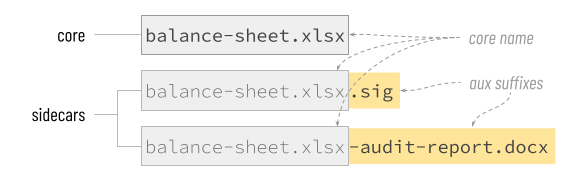
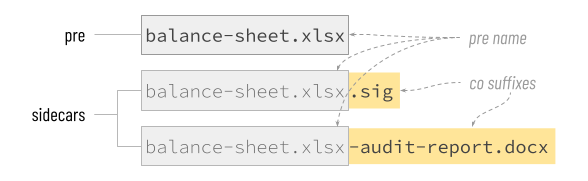
change to 'pre' and 'co'

Changed region(s): [[0.7959, 0.4144, 0.9184, 0.4972], [0.7959, 0.1934, 0.9184, 0.2486], [0.0918, 0.1657, 0.1224, 0.2486]]

diff --git a/README.md b/README.md
@@ -1,12 +1,17 @@
 # Cross-File Associations
 
-Cross-File Associations (CFAs) are conventions that reveal and preserve connections among files and file-like objects. They can be used to make software and humans smarter about grouping things together.
+Cross-File Associations (CFAs) are conventions that reveal and preserve connections among files and file-like objects. They can be used to make software and humans smarter about grouping things together. The goal is not extremely precise semantics, but rather a significantly better clarity with minimal effort.
 
-CFAs are simple enough that a human can learn them in a couple minutes, but robust enough to provide a foundation for sophisticated software.
+CFAs are simple enough that a human can learn the basics in a couple minutes, but robust enough to provide a foundation for sophisticated software.
 
 Consider an email that includes as attachments a slide deck, photos, a spreadsheet, and a digital signature. A CFA can make it obvious that the digital signature is bound to the spreadsheet. Noticing the CFA, email client can encourage uploading or downloading the two associated files as a unit, and warn if they become separated.
 
-## Basic Concepts
+## Quick Reference
+
+
+## Tutorial
+
+### Concepts
 
 The theory behind CFAs is described in an academic paper, and the specification for CFAs is published as an RFC. We'll skip most of the details in this tutorial, but we still need to define a few terms.
 
@@ -14,13 +19,19 @@ In the context of CFAs, a __file__ is anything that has a name/identifier and co
 
 When a file is party to a CFA, we say that the file __binds__ the CFA. A given file may bind zero or more CFAs.
 
-CFAs can be either __directional__ or __directionless__.
+CFAs can be either __directed__ or __common__.
 
-A directional CFA confers special status on a subset of its bound files that are *first* (possibly, meaning more important, but certainly meaning that they should exist before the rest of the set can be populated). These are known as __core files__. Other files are dependent on this core; they cannot be created until the core exists, and they typically lose meaning if the core is missing. These are __aux files__.
+A directed CFA imputes special status to a subset of its bound files that *come before* the others. The precedence of these files may or may not mean they are more valuable &mdash; importance and utility are contextual &mdash; but such files are almost always created *first*, and they provide a *logical foundation* toward which the group is oriented and upon which the meaning of the overall group depends. Such files are called __pre files__.
 
-A directionless CFA lacks this dependency construct; it models a simple set in which all bound files are peer, aux files.
+Files that lack this special status in a CFA are called __co files__.
 
-![directional vs. directionless CFAs](directional-vs-directionaless-cfas.png)
+If the same audio recording is saved in both .flac and .mp3 format, the two files might be bound into a CFA that is directed toward the *pre* FLAC version (which is lossless), with the lossy MP3 as a *co*.
+
+A common CFA is not directed toward *pre*; it models a simple set in which all bound files are *co*.
+
+A given file may be *pre* in one CFA, and *co* in another. 
+
+![directed vs. common CFAs](directed-vs-common-cfas.png)
 
 There are different ways to declare a CFA. We call them __strategies__. Different strategies have different pros and cons.
 
@@ -32,15 +43,15 @@ Currently, five strategies for declaring a CFA are standardized.
 
 ### Sidecar
 
-One strategy is to name files in a way that embodies the __sidecar__ naming pattern. In this strategy, there is one core file in the CFA, and it has any arbitrary name. Aux files are called "sidecars" because their names are dependent on the core: a sidecar name equals the name of the core file followed by a unique, descriptive suffix.
+One strategy is to name files in a way that embodies the __sidecar__ naming pattern. In this strategy, there is one pre file in the CFA, and it has any arbitrary name. co files are called "sidecars" because their names are dependent on the pre: a sidecar name equals the name of the pre file followed by a unique, descriptive suffix.
 
-Returning to the spreadsheet-digital-signature-in-email example that we mentioned above, if the spreadsheet attachment is named `balance-sheet.xlsx`, and the digital signature attachment is named `balance-sheet.xlsx.sig`, an email client can know that a sidecar CFA is active; the spreadsheet is the core file, and the digital signature is aux.
+Returning to the spreadsheet-digital-signature-in-email example that we mentioned above, if the spreadsheet attachment is named `balance-sheet.xlsx`, and the digital signature attachment is named `balance-sheet.xlsx.sig`, an email client can know that a sidecar CFA is active; the spreadsheet is the pre file, and the digital signature is co.
 
 ![sidecar CFA](sidecar-cfa.png)
 
 Sidecar CFAs are not always pairwise. We could add a third file in the same container and name it `balance-sheet.xlsx-audit-report.docx`; this would be an additional sidecar bound to the same CFA.
 
-In sidecar names, the boundary between the core name and the unique sidecar suffix must be delimited by a non-word character such as a space, `.`, `-`, or `_`.
+In sidecar names, the boundary between the pre name and the unique sidecar suffix must be delimited by a non-word character such as a space, `.`, `-`, or `_`.
 
 Sidecar CFAs are directional and external. Like all external strategies, they are also container-dependent; the relationship implied by the naming convention cannot be evaluated except within the context of a shared container.
 
@@ -82,51 +93,51 @@ Importantly, files bound to a CFA in this way can be part of the same set whethe
 
 Suppose a composer of classical music wants to mark all her compositions as belonging to the overall corpus of compositions that she creates during her career. She can embed metadata in each new digital file that she authors, marking it internally as part of a CFA identified by the UUID `0bbfac55-81c9-48ab-8934-9a46c64c0703`. That UUID then binds all her creative output together, even if it's built with a variety of tools, for many clients, across decades, and stored in a hodge-podge of storage containers.
 
-When creating CFA metadata annotations, three variants of the `name` half of the pair are defined. The names of these variants come from the [Dublin Core standard for metadata](https://www.dublincore.org/specifications/dublin-core/dcmi-terms/), and the associated semantics match what is defined there.
+When creating CFA metadata annotations, three variants of the `name` half of the pair are defined. The names of these variants come from the [Dublin pre standard for metadata](https://www.dublinpre.org/specifications/dublin-pre/dcmi-terms/), and the associated semantics match what is defined there.
 
-* [identifier](https://www.dublincore.org/specifications/dublin-core/dcmi-terms/#http://purl.org/dc/terms/identifier): A file that carries this type of CFA annotation declares itself to be the one and only core file in the CFA. Thus, the identifier in the `value` half of the pair can be used as a one-to-one lookup key for the file. All other files in the same CFA must be aux files (see the "relation" variant next).
+* [identifier](https://www.dublinpre.org/specifications/dublin-pre/dcmi-terms/#http://purl.org/dc/terms/identifier): A file that carries this type of CFA annotation declares itself to be the one and only pre file in the CFA. Thus, the identifier in the `value` half of the pair can be used as a one-to-one lookup key for the file. All other files in the same CFA must be co files (see the "relation" variant next).
 
-* [relation](https://www.dublincore.org/specifications/dublin-core/dcmi-terms/#http://purl.org/dc/terms/relation): A file that carries this type of CFA annotation declares itself to be dependent upon a CFA core that's associated with the identifier in the `value` half of the metadata pair. Thus, it is what CFA considers an aux file.
+* [relation](https://www.dublinpre.org/specifications/dublin-pre/dcmi-terms/#http://purl.org/dc/terms/relation): A file that carries this type of CFA annotation declares itself to be dependent upon a CFA pre that's associated with the identifier in the `value` half of the metadata pair. Thus, it is what CFA considers an co file.
 
-* [isPartOf](https://www.dublincore.org/specifications/dublin-core/dcmi-terms/#http://purl.org/dc/terms/isPartOf): A file that carries this type of CFA annotation declares itself to be part of a multi-file core.
+* [isPartOf](https://www.dublinpre.org/specifications/dublin-pre/dcmi-terms/#http://purl.org/dc/terms/isPartOf): A file that carries this type of CFA annotation declares itself to be part of a multi-file pre.
 
-To understand how these annotations might be used, consider a case where the composer writes a piece of music for the violin. Later, she arranges a derivative version for the clarinet. The clarinet version is aux &mdash; dependent upon the original violin composition &mdash; which is core. In such a case, and assuming the composer chooses arbitrary identifier `68d15148-a0bd-4716-9618-061a17389689` for the CFA, she would embed metadata in her core violin composition that says:
+To understand how these annotations might be used, consider a case where the composer writes a piece of music for the violin. Later, she arranges a derivative version for the clarinet. The clarinet version is co &mdash; dependent upon the original violin composition &mdash; which is pre. In such a case, and assuming the composer chooses arbitrary identifier `68d15148-a0bd-4716-9618-061a17389689` for the CFA, she would embed metadata in her pre violin composition that says:
 
     identifier = 68d15148-a0bd-4716-9618-061a17389689
 
-And she would embed metadata in her aux clarinet arrangement that says:
+And she would embed metadata in her co clarinet arrangement that says:
 
     relation = 68d15148-a0bd-4716-9618-061a17389689
 
 The metadata expresses a directional CFA.
 
-![directional metadata CFA](directional-metadata-cfa.png)
+![directed metadata CFA](directed-metadata-cfa.png)
 
 Now suppose that the composer writes a symphony that has 4 movements. Each movement is a separate digital file emitted by her composition software. She wants them to be associated with the arbitrary identifier `972d639a-04d7-4c1e-9ea9-196e94b05eb0` to bind her symphony together, so she embeds metadata in each movement's digital file. The metadata says:
 
     isPartOf = 972d639a-04d7-4c1e-9ea9-196e94b05eb0
 
-The metadata in this situation also expresses a directional CFA, but all the files we've talked about so far are core. However, the possibility of aux is still useful. If three recordings of this symphony are performed, the composer can mark the recordings as aux, dependent on the composite core: 
+The metadata in this situation also expresses a directional CFA, but all the files we've talked about so far are pre. However, the possibility of co is still useful. If three recordings of this symphony are performed, the composer can mark the recordings as co, dependent on the multi-part pre: 
 
-![composite core metadata CFA](composite-core-metadata-cfa.png)
+![multi-part pre metadata CFA](multi-pre-metadata-cfa.png)
 
 ### Clarifiers
 
-__Clarifiers__ are optional, supplemental annotations that let a content creator specify the *cardinality* of a set, and characterize the nature of a dependency. They can change a CFA from saying "This file is core and may have aux files" to "This file is core and has exactly one aux file that is a digital signature over the core."
+__Clarifiers__ are optional, supplemental annotations that let a content creator specify the *cardinality* of a set, and characterize the nature of a dependency. They can change a CFA from saying "This file is pre and may have co files" to "This file is pre and has exactly one co file that is a digital signature over the pre."
 
 In external strategies, clarifiers manifest as an additional infix in a filename. In internal strategies, they are an extra token appended to the `value` portion of a `name=value` metadata pair.
 
-A clarifier is a three-part string. The first and third parts are cardinality numbers that quantify how many core and aux files, respectively, are known to be part of the set. For a CFA binding a spreadsheet to a digital signature, both of these numbers would be 1 &mdash; it's a 1-to-1 relationship. For a CFA binding the 4 movements of a symphony, the first number would be 4, since all 4 movements are core. If cardinality is not known, the number is omitted. A cardinality of 0 means that no files in the set have the corresponding status. 
+A clarifier is a three-part string. The first and third parts are cardinality numbers that quantify how many pre and co files, respectively, are known to be part of the set. For a CFA binding a spreadsheet to a digital signature, both of these numbers would be 1 &mdash; it's a 1-to-1 relationship. For a CFA binding the 4 movements of a symphony, the first number would be 4, since all 4 movements are pre. If cardinality is not known, the number is omitted. A cardinality of 0 means that no files in the set have the corresponding status. 
 
-The middle part of a clarifier is a __dependency predicate symbol__. The following symbols are defined:
+The middle part of a clarifier is a __dependency predicate symbol__ that functions somewhat like the `rel` attribute on an HTML `<link>` tag. The following symbols are defined:
 
 symbol | meaning                                               | sample use cases
 --- |-------------------------------------------------------| ---
-c | aux <u>c</u>ites core                                 | An academic paper (core) and a subsequent paper that quotes from it (aux). An affidavit (core) and a legal filing that references it (aux).
-d | aux <u>d</u>erives from core                          | A violin concerto (core) that spawns an arrangement for clarinet (aux). A novel (core) and its audiobook version (aux). A repo of source code (core) and its forks (aux).
-f | aux <u>f</u>ollows (answers, replies to) core         | A tweet (core) and a reply (aux). A critique (core) and a rebuttal (aux). An email (core) and a response (aux).
-r | aux <u>r</u>eviews core                               | A financial statement (core) and an auditor's report (aux). An album (core) and a review by a music critic (aux).
-s | aux <u>s</u>upersedes core                            | Version 1 of a formal standard (core) and version 2 (aux).
-t | aux <u>t</u>ransforms core (typically in a lossy way) | A news article (core) and translations (aux). A vector graphic (core) and a bitmap graphic (aux). An audio stream (core) and a transcription (aux). A FLAC audio recording (core) and its .mp3 compression (aux). In general, transformations that are not lossy (e.g., a file in zipped and unzipped form, the same text encoded in UTF-16 and UTF-8) do not have an obvious core-to-aux directionality and are thus thought of as multi-core (not needing clarification).
-v | aux <u>v</u>erifies core                              | A spreadsheet (core) and its digital signature (aux). A downloadable software package (core) and its hash (aux). A git commit (core) and its hash (aux). A piece of malware (core) and its distinctive profile/signature (aux). A credential presentation, including nonce (core) and its signature (aux).
-x | default                                               | Generic/ill-defined dependency, or multiple aux files exist with different meanings. Separates the two cardinalities without asserting any special semantics.
+c | co <u>c</u>ites pre                                 | An academic paper (pre) and a subsequent paper that quotes from it (co). An affidavit (pre) and a legal filing that references it (co).
+d | co <u>d</u>erives from pre                          | A violin concerto (pre) that spawns an arrangement for clarinet (co). A novel (pre) and its audiobook version (co). A repo of source code (pre) and its forks (co).
+f | co <u>f</u>ollows (answers, replies to) pre         | A tweet (pre) and a reply (co). A critique (pre) and a rebuttal (co). An email (pre) and a response (co).
+r | co <u>r</u>eviews pre                               | A financial statement (pre) and an auditor's report (co). An album (pre) and a review by a music critic (co).
+s | co <u>s</u>upersedes pre                            | Version 1 of a formal standard (pre) and version 2 (co).
+t | co <u>t</u>ransforms pre (typically in a lossy way) | A news article (pre) and translations (co). A vector graphic (pre) and a bitmap graphic (co). An audio stream (pre) and a transcription (co). A FLAC audio recording (pre) and its .mp3 compression (co). In general, transformations that are not lossy (e.g., a file in zipped and unzipped form, the same text encoded in UTF-16 and UTF-8) do not have an obvious pre-to-co directionality and are thus thought of as multi-pre (not needing clarification).
+v | co <u>v</u>erifies pre                              | A spreadsheet (pre) and its digital signature (co). A downloadable software package (pre) and its hash (co). A git commit (pre) and its hash (co). A piece of malware (pre) and its distinctive profile/signature (co). A credential presentation, including nonce (pre) and its signature (co).
+x | default                                               | Generic/ill-defined dependency, or multiple co files exist with different meanings. Separates the two cardinalities without asserting any special semantics.
